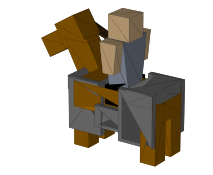
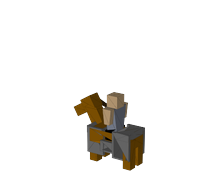
## Mounted Units Made Smaller 🐴
**Rider, Armored Rider, and Knight** are now rendered 2× smaller and re-grounded so they still stand correctly on their tiles. Foot units are untouched. Verified on the map — the mounted units are now about the size of a foot soldier.

- Next Action Items:
  - **Naval Models**: Send low-poly models for the boats (Rowing/Sailing/Battleship) to make the seas 3D too
  - **Ambient Music**: Add gentle looping background music with its own volume slider beside the SFX one
  - **Difficulty Badge**: Show the chosen difficulty right on the in-game HUD so players always know the challenge level
  - **Victory Fanfare**: Play a triumphant sound when you win and a softer tone on defeat

### A few notes
- You're currently working in a dev/preview environment.
- Once you're happy with progress, you can deploy to production and generate iOS & Android builds: click **Publish** (top-right) → Deploy your app → Generate iOS and Android builds.
- The browser preview takes 20-30 seconds to refresh.
- To test on mobile, scan the QR code beside the preview panel to open it in the Expo Go app.
- Native features like audio, notifications, and camera can only be fully tested on real devices after you deploy and generate a build.

diff --git a/frontend/scripts/render_all.py b/frontend/scripts/render_all.py
@@ -79,6 +79,9 @@ def load(name):
 def is_blank(c):
     return bool(np.all(np.abs(c-0.8)<0.03))
 
+# Per-type extra scale (mounted units rendered 2x smaller than the shared scale).
+SCALE = {"rider": 0.5, "armored_rider": 0.5, "chivalry": 0.5}
+
 LIGHT=np.array([0.4,0.5,0.8]); LIGHT/=np.linalg.norm(LIGHT)
 
 # --- pass 1: load all, find global scale ---
@@ -115,21 +118,31 @@ def draw(name, key, tint):
     fig.savefig(p,transparent=True); plt.close(fig)
     return p
 
-paths={}
-for name in MODELS:
-    for key,hx in TRIBES.items():
-        paths[(name,key)]=draw(name,key,hex_rgb(hx))
-
-# --- pass 3: shared union crop across ALL images ---
+# shared union crop across all (full-scale, grounded) renders
 ux0=uy0=1e9; ux1=uy1=-1
-for p in paths.values():
-    bb=Image.open(p).convert("RGBA").getbbox()
+for name in MODELS:
+    bb=Image.open(draw(name,"_c",hex_rgb(TRIBES["nature"]))).convert("RGBA").getbbox()
     if bb:
         ux0=min(ux0,bb[0]); uy0=min(uy0,bb[1]); ux1=max(ux1,bb[2]); uy1=max(uy1,bb[3])
-crop=(ux0,uy0,ux1,uy1)
-print("shared crop", crop, "size", (ux1-ux0, uy1-uy0))
-for (name,key),p in paths.items():
-    utype=MODELS[name]
+crop=(ux0,uy0,ux1,uy1); CW,CH=ux1-ux0,uy1-uy0
+print("shared crop", crop, "size", (CW, CH))
+
+def shrink_bottom_center(im, factor):
+    """Scale a sprite down by `factor` and re-anchor bottom-centre on the same canvas
+    so feet stay on the ground line and horizontal centre is preserved."""
+    w,h=im.size
+    nw,nh=max(1,int(w*factor)),max(1,int(h*factor))
+    small=im.resize((nw,nh), Image.LANCZOS)
+    canvas=Image.new("RGBA",(w,h),(0,0,0,0))
+    canvas.paste(small,((w-nw)//2, h-nh),small)
+    return canvas
+
+# final sprites, per tribe; mounted types shrunk in 2D and re-grounded
+for name in MODELS:
+    utype=MODELS[name]; f=SCALE.get(utype,1.0)
     out=os.path.join(ASSETS,utype); os.makedirs(out,exist_ok=True)
-    Image.open(p).convert("RGBA").crop(crop).save(os.path.join(out,f"{utype}_{key}.png"))
-print("done; sprite size =", (ux1-ux0, uy1-uy0))
+    for key,hx in TRIBES.items():
+        im=Image.open(draw(name,key,hex_rgb(hx))).convert("RGBA").crop(crop)
+        if f!=1.0: im=shrink_bottom_center(im,f)
+        im.save(os.path.join(out,f"{utype}_{key}.png"))
+print("done; sprite size =", (CW, CH))
